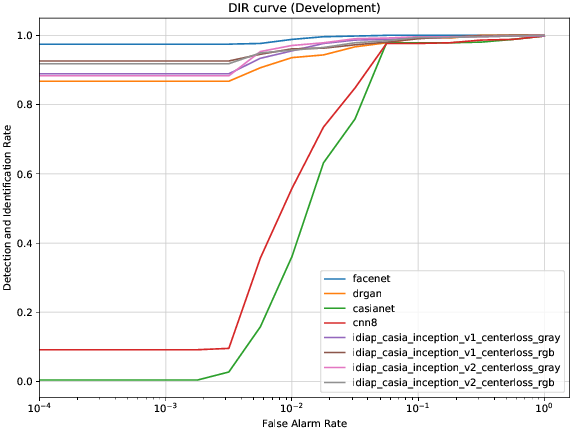
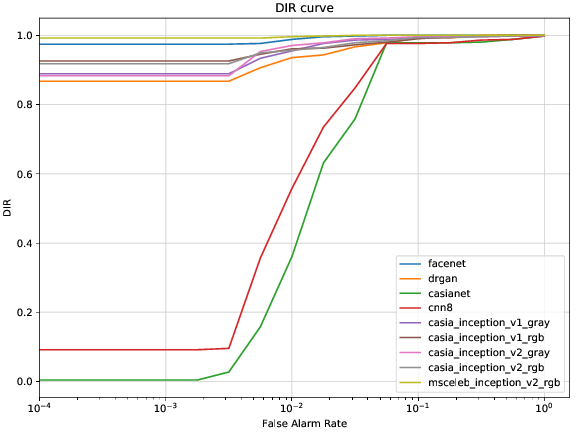
Updated baselines

diff --git a/doc/leaderboard.rst b/doc/leaderboard.rst
@@ -14,29 +14,37 @@ Mobio
 
 Testing only the **mobio-male** protocol.
 
- +-------------------------------+-------------+-------------+
- | System                        | ERR (dev)   | HTER (eval) |
- +===============================+=============+=============+
- | VGG16                         | 2.6%        | 3.1%        |
- +-------------------------------+-------------+-------------+
- | Facenet                       | 0.6%        | 0.2%        |
- +-------------------------------+-------------+-------------+
- | DrGAN                         | 0.8%        | 2.6%        |
- +-------------------------------+-------------+-------------+
- | CasiaNET                      | 16.2%       | 9.9%        | 
- +-------------------------------+-------------+-------------+
- | CNN8                          | 14.8%       | 14.9%       |
- +-------------------------------+-------------+-------------+
- | **Resnetv2 center loss gray** | 2.8%        | 1.8%        |
- +-------------------------------+-------------+-------------+
- | **Resnetv2 center loss RGB**  | 1.2%        | 0.9%        |
- +-------------------------------+-------------+-------------+
- | **Resnetv1 center loss gray** | 2.5%        | 1.3%        |
- +-------------------------------+-------------+-------------+
- | **Resnetv1 center loss RGB**  | 1.7%        | 0.9%        |
- +-------------------------------+-------------+-------------+
- | **ISV**                       | 3.2%        | 7.5%        |
- +-------------------------------+-------------+-------------+
+ +-----------------------------------------------+-------------+-------------+
+ | System                                        | ERR (dev)   | HTER (eval) |
+ +===============================================+=============+=============+
+ | VGG16                                         | 2.58%       | 3.09%       |
+ +-----------------------------------------------+-------------+-------------+
+ | Facenet                                       | 0.56%       | 0.22%       |
+ +-----------------------------------------------+-------------+-------------+
+ | DrGAN                                         | 0.8%        | 2.6%        |
+ +-----------------------------------------------+-------------+-------------+
+ | CasiaNET                                      | 16.2%       | 9.9%        | 
+ +-----------------------------------------------+-------------++------------+
+ | CNN8                                          | 14.8%       | 14.9%       |
+ +-----------------------------------------------+-------------+-------------+
+ | **Casia WebFace - Resnetv1 center loss gray** | 2.46%       | 1.34%       |
+ +-----------------------------------------------+-------------+-------------+
+ | **Casia WebFace - Resnetv1 center loss RGB**  | 1.7%        | 0.95%       |
+ +-----------------------------------------------+-------------+-------------+
+ | **Casia WebFace - Resnetv2 center loss gray** | 2.77%       | 1.80%       |
+ +-----------------------------------------------+-------------+-------------+
+ | **Casia WebFace - Resnetv2 center loss RGB**  | 1.23%       | 0.89%       |
+ +-----------------------------------------------+-------------+-------------+
+ | **MSCeleb - Resnetv1 center loss gray**       | 1.51%       | 0.49%       |
+ +-----------------------------------------------+-------------+-------------+
+ | **MSCeleb - Resnetv1 center loss RGB**        | 2.07%       | 0.73%       |
+ +-----------------------------------------------+-------------+-------------+ 
+ | **MSCeleb - Resnetv2 center loss gray**       | 1.63%       | 0.88%       |
+ +-----------------------------------------------+-------------+-------------+
+ | **MSCeleb - Resnetv2 center loss RGB**        | 0.33%       | 0.29%       |
+ +-----------------------------------------------+-------------+-------------+
+ | **ISV**                                       | 3.2%        | 7.5%        |
+ +-----------------------------------------------+-------------+-------------+
 
 
 To run each one of these baselines do:
@@ -51,14 +59,20 @@ To run each one of these baselines do:
     $ bob bio baseline idiap_casia_inception_v1_centerloss_rgb mobio-male
     $ bob bio baseline idiap_casia_inception_v2_centerloss_gray mobio-male
     $ bob bio baseline idiap_casia_inception_v2_centerloss_rgb mobio-male
+    $ bob bio baseline idiap_msceleb_inception_v1_centerloss_gray mobio-male
+    $ bob bio baseline idiap_msceleb_inception_v1_centerloss_rgb mobio-male
+    $ bob bio baseline idiap_msceleb_inception_v2_centerloss_gray mobio-male
+    $ bob bio baseline idiap_msceleb_inception_v2_centerloss_rgb mobio-male
     $ bob bio baseline isv mobio-male
 
 
-Follow below the DET curves for the development and dev sets
+Follow below the DET curves for the development and dev sets, and the EPC for the best systems
 
 .. image:: ./img/mobio-male/DET-dev.png
 
 .. image:: ./img/mobio-male/DET-eval.png
+
+.. image:: ./img/mobio-male/EPC.png
 
 
 
@@ -81,56 +95,24 @@ Follow below the average True Positive Identification Rate measures under differ
   +---------------------------------------------+-----------------+-----------------+-----------------+
   | CNN8                                        | 96.93 (0.83)    | 45.55 (11.85)   | 15.63  (10.98)  |
   +---------------------------------------------+-----------------+-----------------+-----------------+  
-  | Casia WebFace - Resnetv2 center loss gray   | 98.51 (0.64)    | 91.68 (2.13)    | 79.91  (4.97)   |
-  +---------------------------------------------+-----------------+-----------------+-----------------+
-  | Casia WebFace - Resnetv2 center loss rgb    | 98.58 (0.65)    | 92.18 (1.68)    | 78.9  (10.35)   |
-  +---------------------------------------------+-----------------+-----------------+-----------------+
   | Casia WebFace - Resnetv1 cross  loss gray   | 98.29 (0.91)    | 93.18 (1.57)    | 79.16 (9.6)     |
   +---------------------------------------------+-----------------+-----------------+-----------------+
   | Casia WebFace - Resnetv1 cross loss rgb     | 98.36 (0.56)    | 92.53 (1.54)    | 77.53 (11.13)   |
+  +---------------------------------------------+-----------------+-----------------+-----------------+
+  | Casia WebFace - Resnetv2 center loss gray   | 98.51 (0.64)    | 91.68 (2.13)    | 79.91  (4.97)   |
+  +---------------------------------------------+-----------------+-----------------+-----------------+
+  | Casia WebFace - Resnetv2 center loss rgb    | 98.58 (0.65)    | 92.18 (1.68)    | 78.9  (10.35)   |
   +---------------------------------------------+-----------------+-----------------+-----------------+
   | MSCeleb - Resnetv2 center loss rgb          | 99.77 (0.19 )   | 99.18 (0.43 )   | 77.75 (30.82)   |
   +---------------------------------------------+-----------------+-----------------+-----------------+  
 
 
-
-Another view of the same metric is the Detection and Identification Rate.
-Follow below such figure of merit under the first fold only.
+Since these protocols are open-set, another way analyse this dataset is via an Open Set Identification evaluation.
+Follow below Detection Identification Rate for the first fold.
 
 .. image:: ./img/lfw/DIR-lfw_fold1.png
 
 
-
-IJB-A
------
-
-Verification protocols
-**********************
-
-Follow bellow the results using CMC (Cumulative Matching Curve) and TPIR (True Positive Identification Rate)
-under different values of FAR (False Alarm Rate).
-
-  +-----------------------------------------------+-----------------+-----------------+-----------------+-----------------+
-  | System                                        |        RR       | TPIR% (FAR=0.1) | TPIR% (FAR=0.01)|TPIR% (FAR=0.001)|
-  +===============================================+=================+=================+=================+=================+
-  | VGG16                                         | 96.17 (0.66 )   |  88.23 (1.12)   |  58.36 (3.6)    | 31.55 (4.31)    |
-  +-----------------------------------------------+-----------------+-----------------+-----------------+-----------------+
-  | Facenet                                       | 94.43 (0.57)    | 92.59 (1.05)    | 67.94 (2.87)    | 40.89 (6.45)    |
-  +-----------------------------------------------+-----------------+-----------------+-----------------+-----------------+
-  | Dr GAN                                        | 91.61 (0.81 )   | 82.28 (1.76)    | 45.05 (3.39)    | 21.68 (4.1)     |
-  +-----------------------------------------------+-----------------+-----------------+-----------------+-----------------+
-  | CasiaNET                                      |                 |                 |                 |                 |
-  +-----------------------------------------------+-----------------+-----------------+-----------------+-----------------+
-  | CNN8                                          |                 |                 |                 |                 |
-  +-----------------------------------------------+-----------------+-----------------+-----------------+-----------------+  
-  | Casia WebFace - Resnetv2 center loss gray     | 90.76 (1.3)     | 82.23 (2.24)    | 46.33 (3.01)    | 23.59 (3.22)    |
-  +-----------------------------------------------+-----------------+-----------------+-----------------+-----------------+
-  | Casia WebFace - Resnetv2 center loss rgb      | 92.12 (1.48)    | 81.03 (1.86)    | 47.48 (2.46)    | 24.97 (4.3)     |
-  +-----------------------------------------------+-----------------+-----------------+-----------------+-----------------+
-  | Casia WebFace - Resnetv1 cross  loss gray     |                 |                 |                 |                 |
-  +-----------------------------------------------+-----------------+-----------------+-----------------+-----------------+
-  | Casia WebFace - Resnetv1 cross loss rgb       |                 |                 |                 |                 |
-  +-----------------------------------------------+-----------------+-----------------+-----------------+-----------------+
 
 
 IJB-C
@@ -156,15 +138,20 @@ Check `here <https://www.idiap.ch/software/bob/docs/bob/bob.db.ijbc/stable/index
 +----------------------------------------------+-----------------+-----------------+-----------------+
 | CNN8                                         | 17.871          | 4.709           | 0.997           | 
 +----------------------------------------------+-----------------+-----------------+-----------------+
-| Casia WebFace - Resnetv2 center loss gray    | 90.806          | 66.754          | 39.577          |
-+----------------------------------------------+-----------------+-----------------+-----------------+
-| Casia WebFace - Resnetv2 center loss rgb     | 90.633          | 67.388          | 41.837          |
-+----------------------------------------------+-----------------+-----------------+-----------------+
 | Casia WebFace - Resnetv1 center loss gray    | 90.597          | 67.945          | 41.402          |
 +----------------------------------------------+-----------------+-----------------+-----------------+
 | Casia WebFace - Resnetv1 center loss rgb     | 90.985          | 68.4            | 42.041          |
 +----------------------------------------------+-----------------+-----------------+-----------------+
-| MSCeleba      - Resnetv2 center loss rgb     | 98.08           | 83.36           | 47.425          |
+| Casia WebFace - Resnetv2 center loss gray    | 90.806          | 66.754          | 39.577          |
 +----------------------------------------------+-----------------+-----------------+-----------------+
+| Casia WebFace - Resnetv2 center loss rgb     | 90.633          | 67.388          | 41.837          |
++----------------------------------------------+-----------------+-----------------+-----------------+
+| MSCeleba      - Resnetv2 center loss rgb     | 99.0            | 91.55           | 62.53           |
++----------------------------------------------+-----------------+-----------------+-----------------+
+
+
+Follow below the ROC curve of the three best evaluated systems.
+
+.. image:: ./img/ijbc/protocol-11.png
 
 
